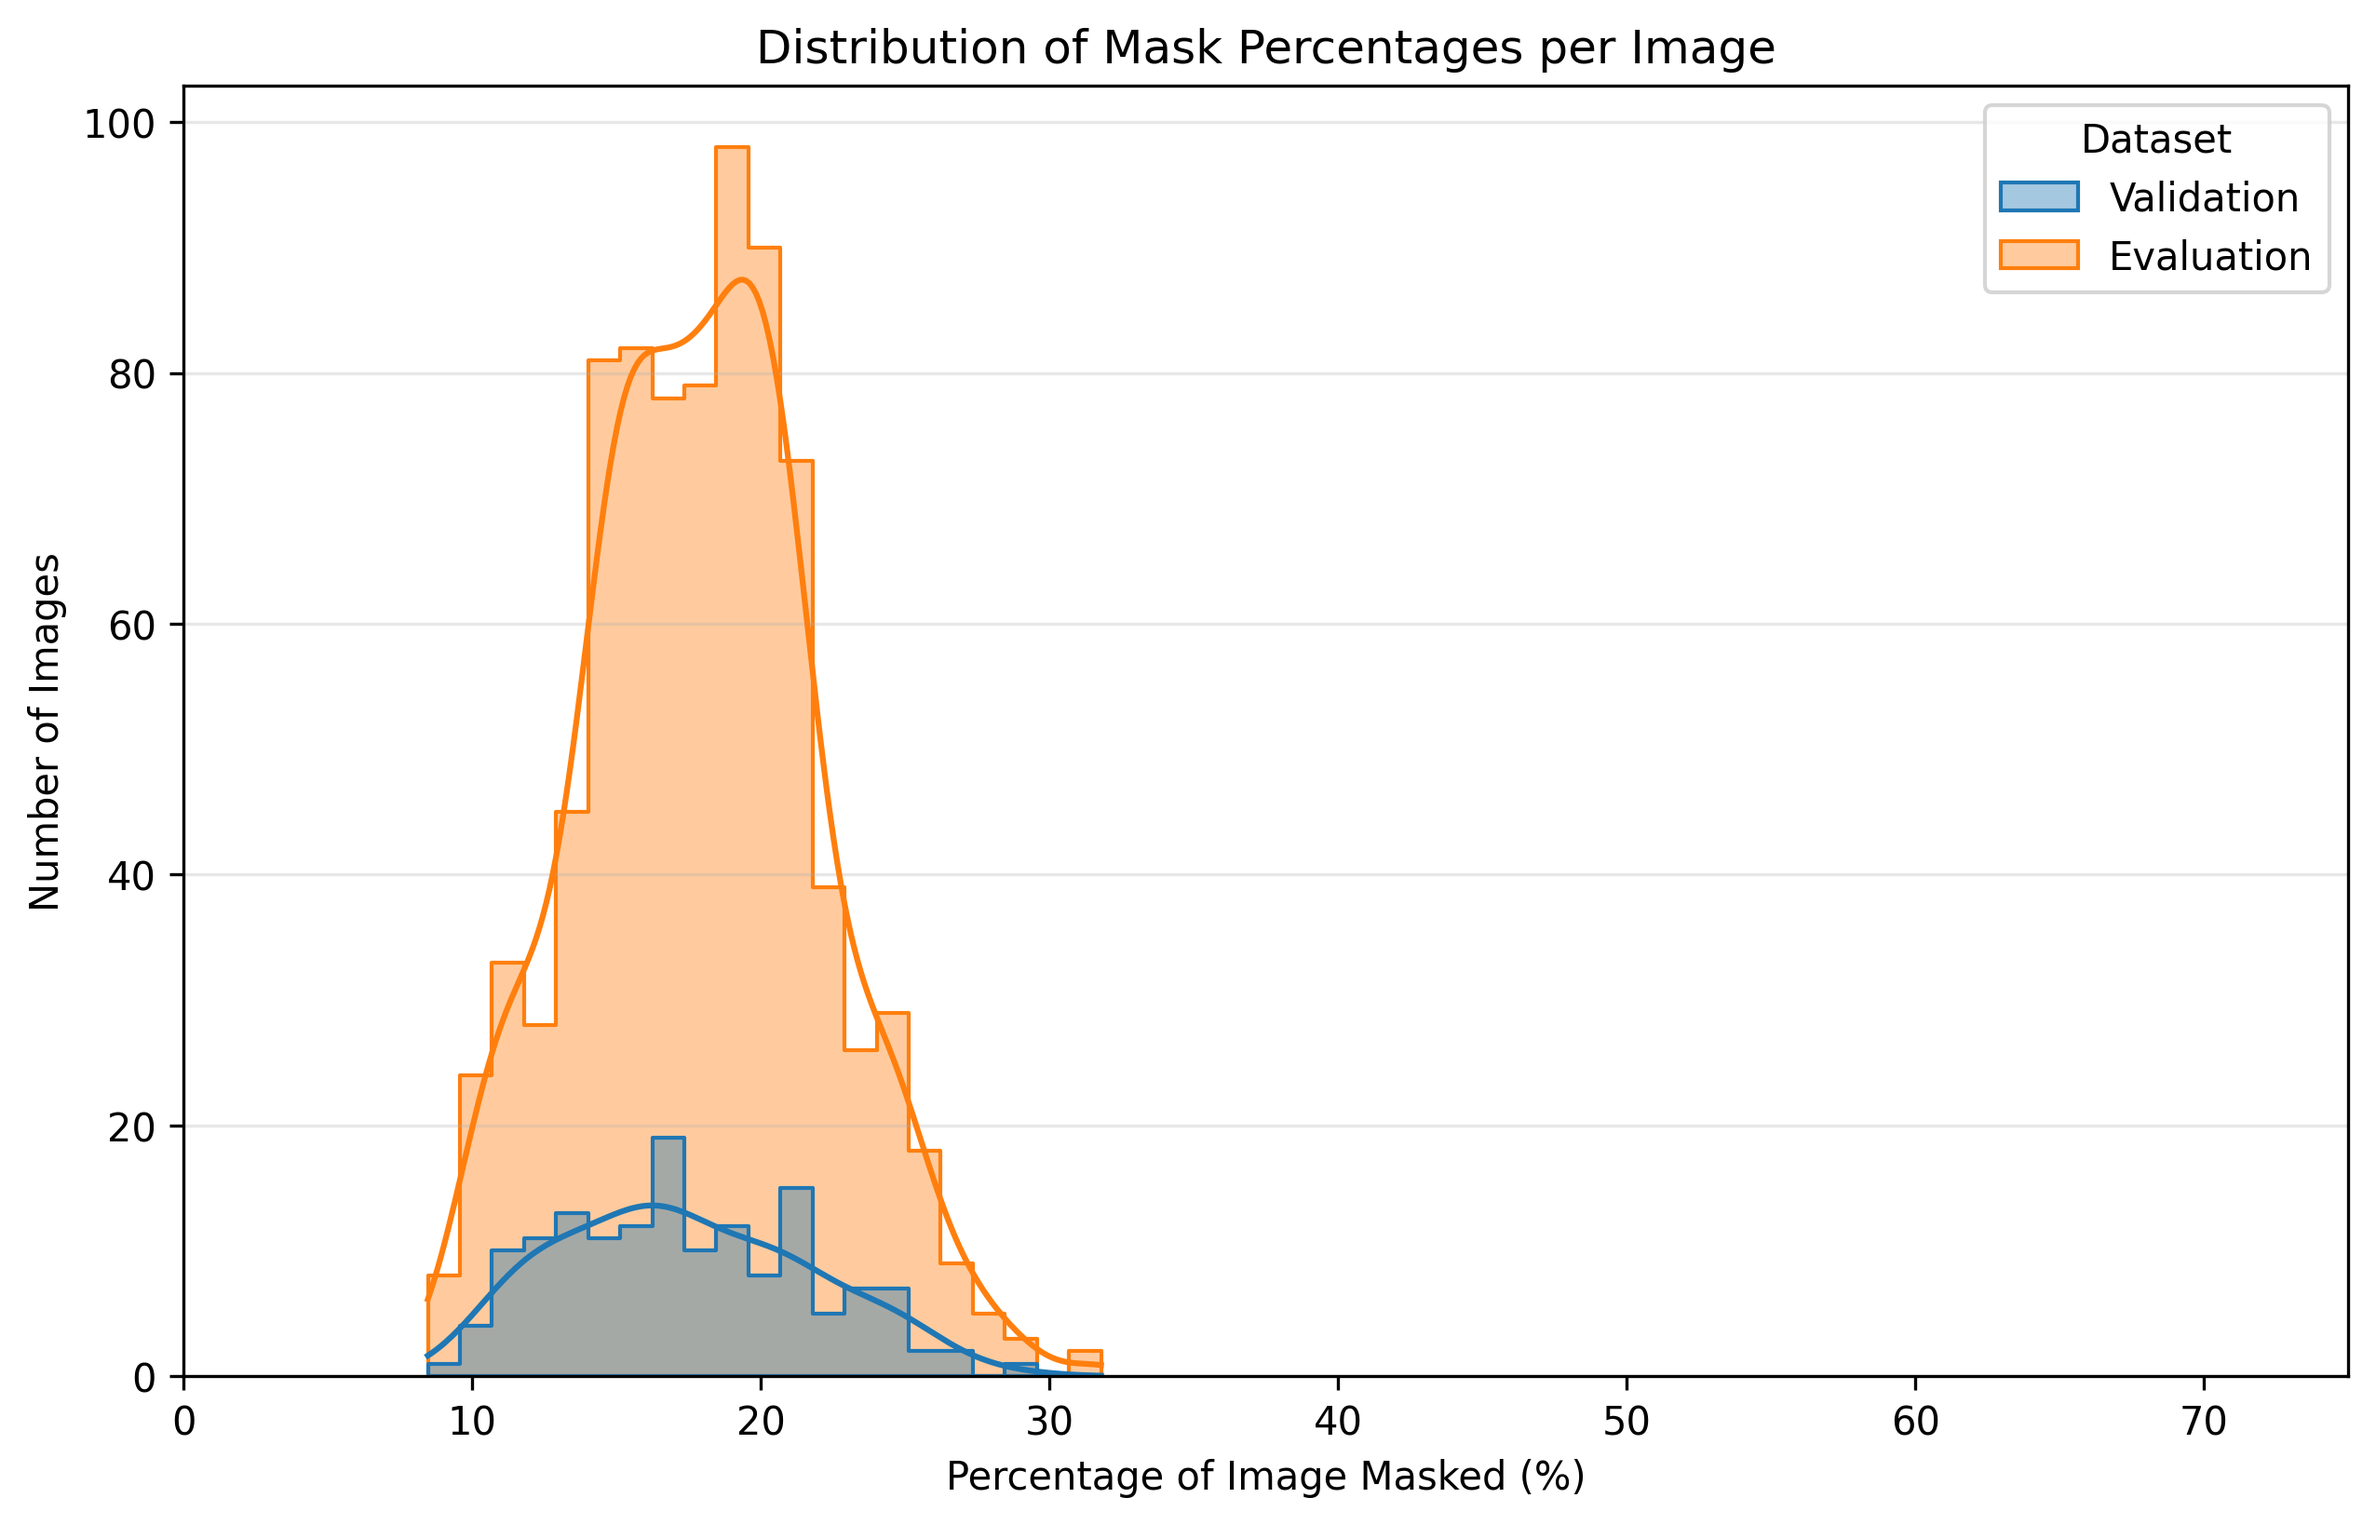
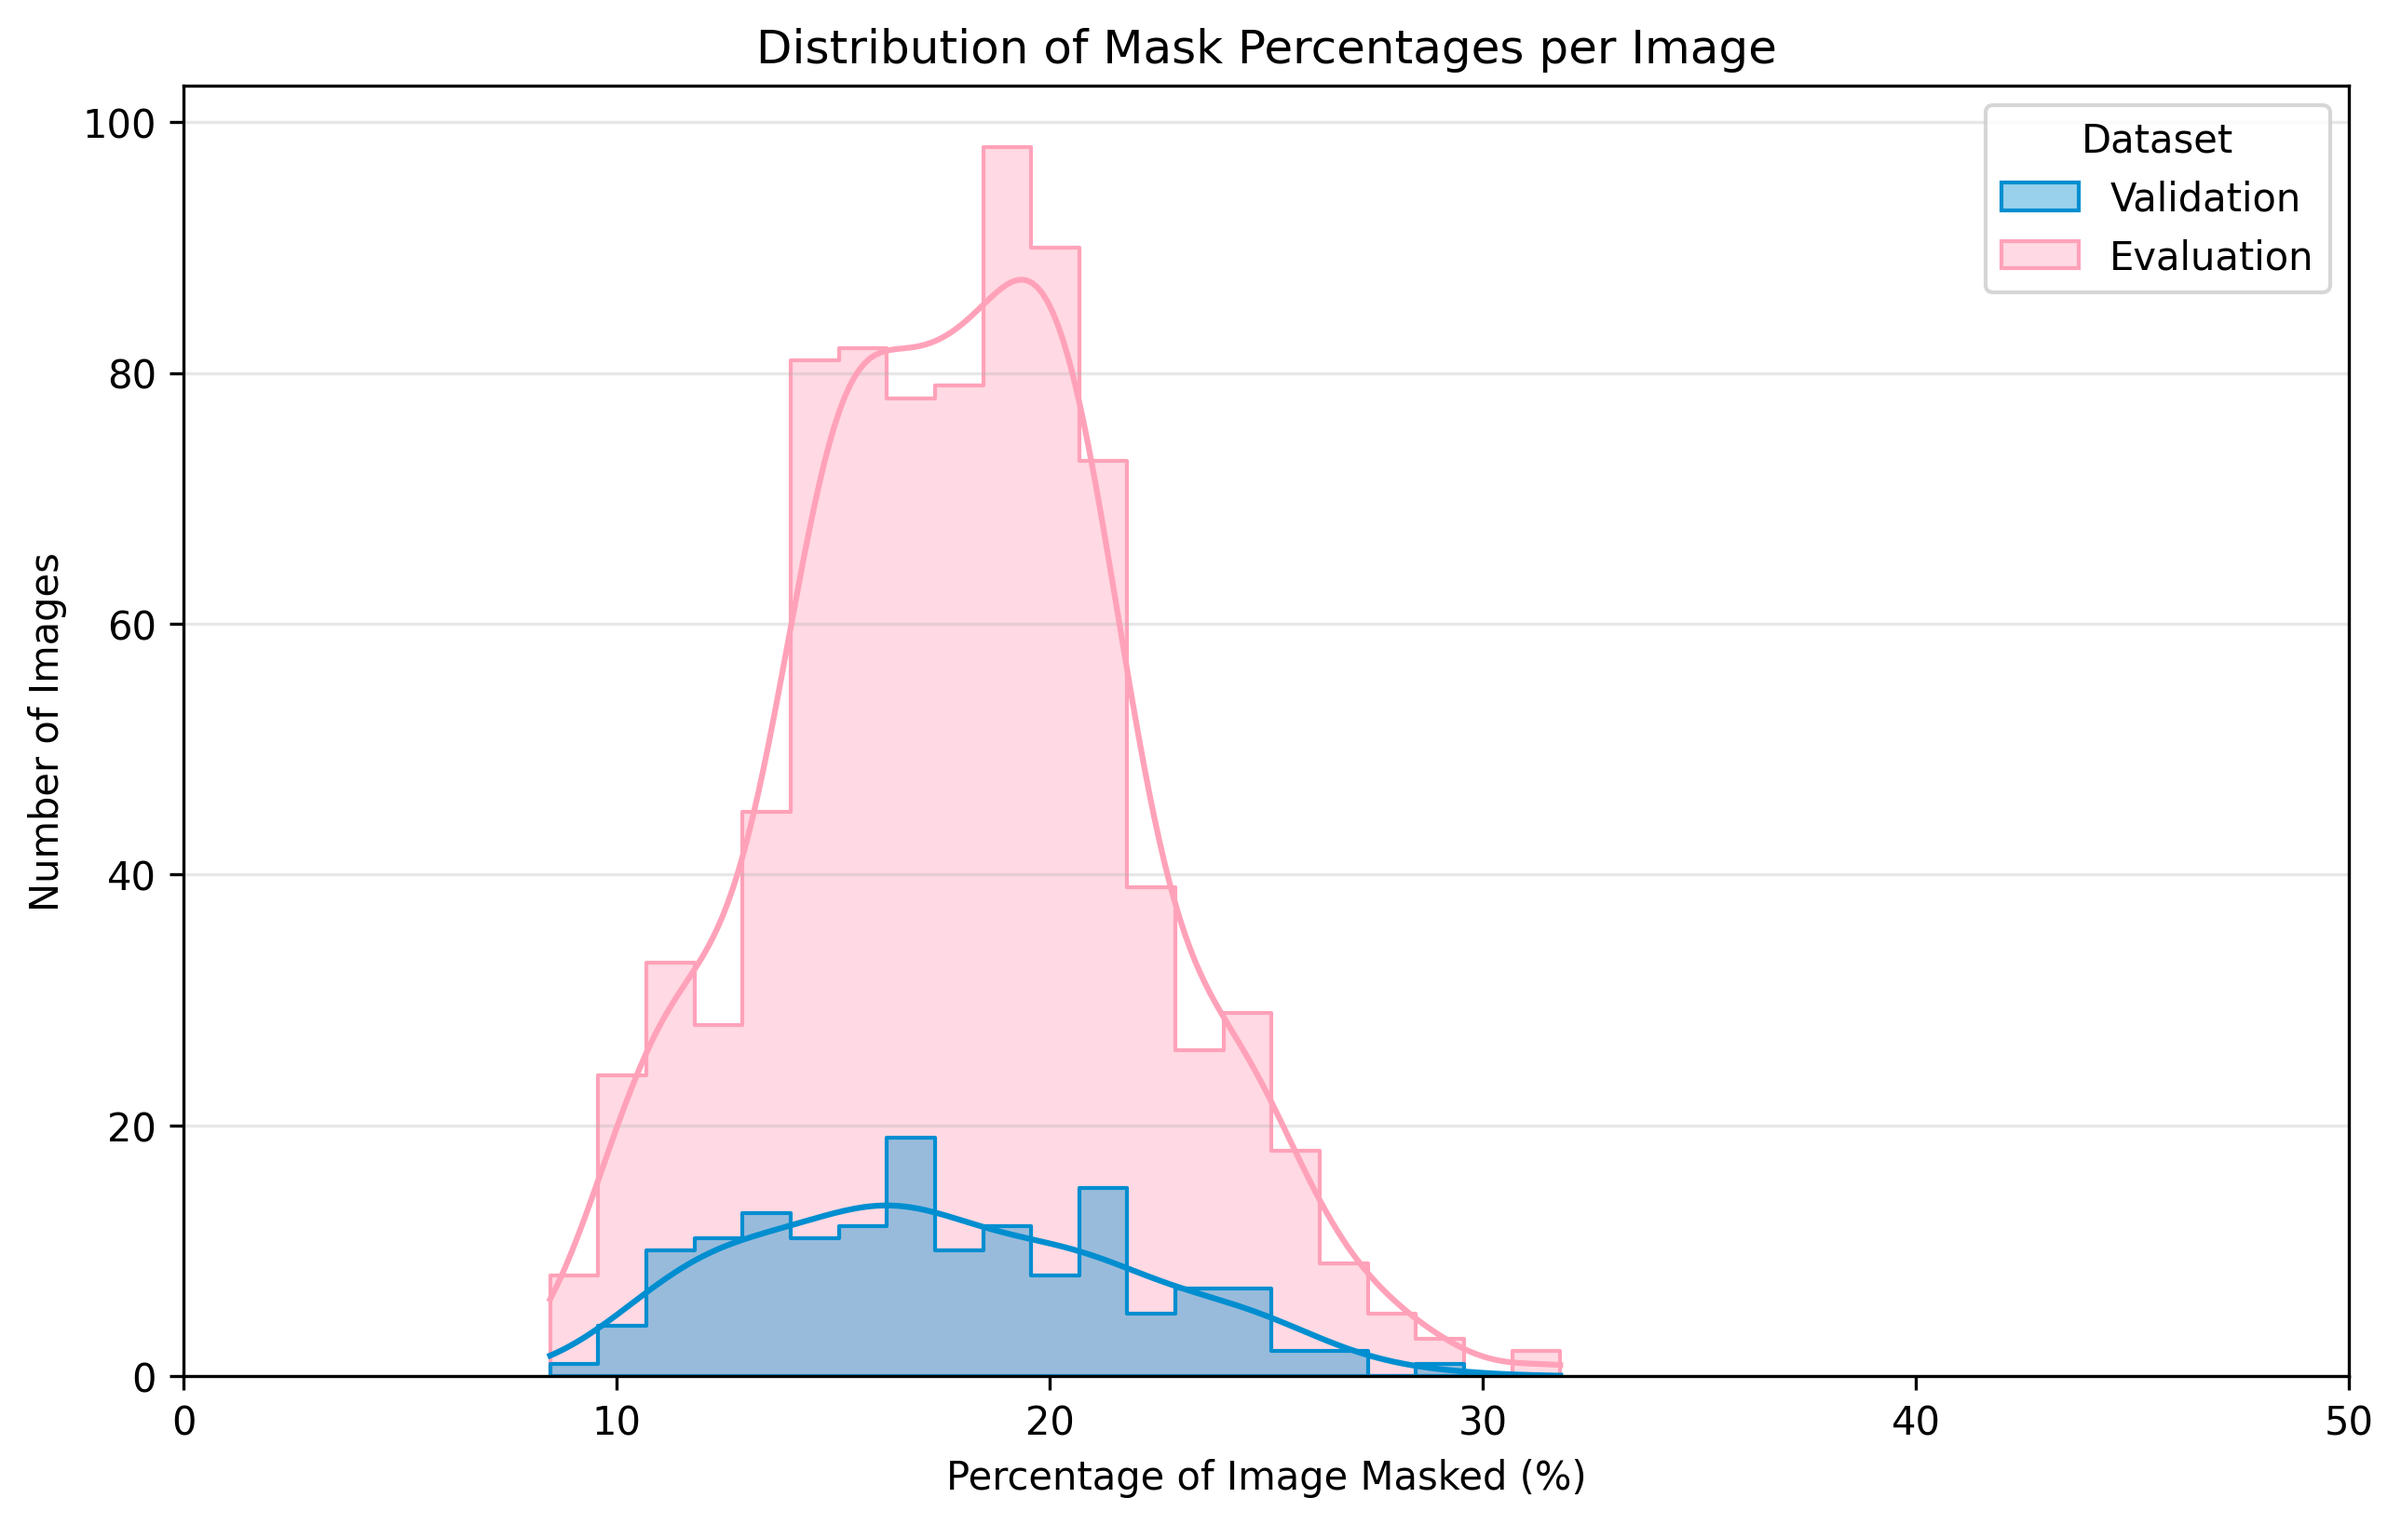
update hist

diff --git a/graphs/coverage_hist.py b/graphs/coverage_hist.py
@@ -52,11 +52,11 @@ def draw_hist(df):
 
     sns.histplot(
         data=df, x='Mask Percentage', hue='Dataset',
-        kde=True, element="step", palette=['#1f77b4', '#ff7f0e'],
+        kde=True, element="step", palette=['#008ED0', '#FFA2B9'],
         alpha=0.4
     )
 
-    plt.xlim(0, 75)
+    plt.xlim(0, 50)
 
     plt.title('Distribution of Mask Percentages per Image')
     plt.xlabel('Percentage of Image Masked (%)')
@@ -81,4 +81,4 @@ if __name__ == '__main__':
     df = prepare_data(validation_path, evaluation_path)
 
     draw_hist(df)
-    draw_ecdf(df)
+    #draw_ecdf(df)
